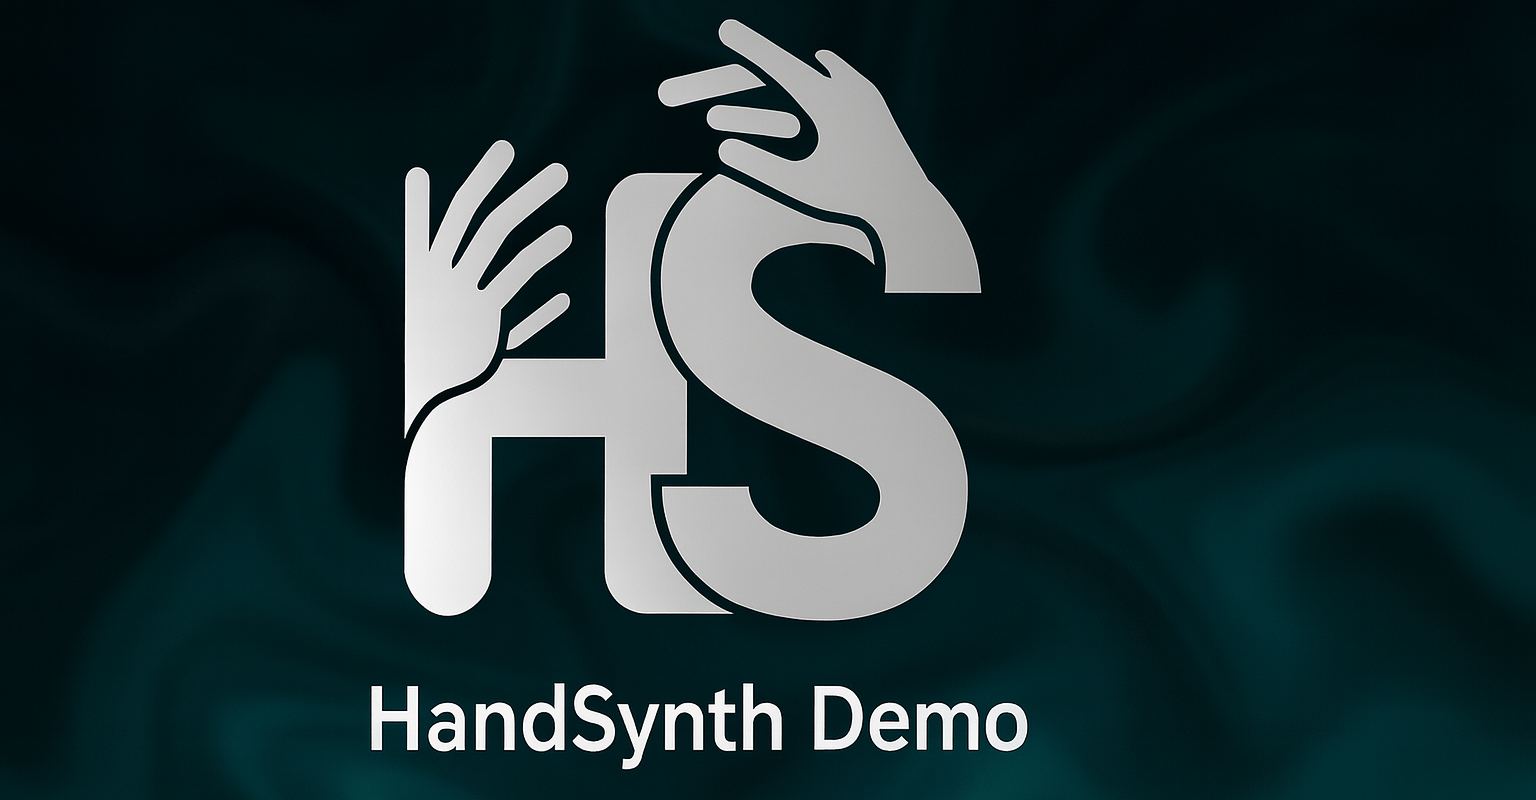
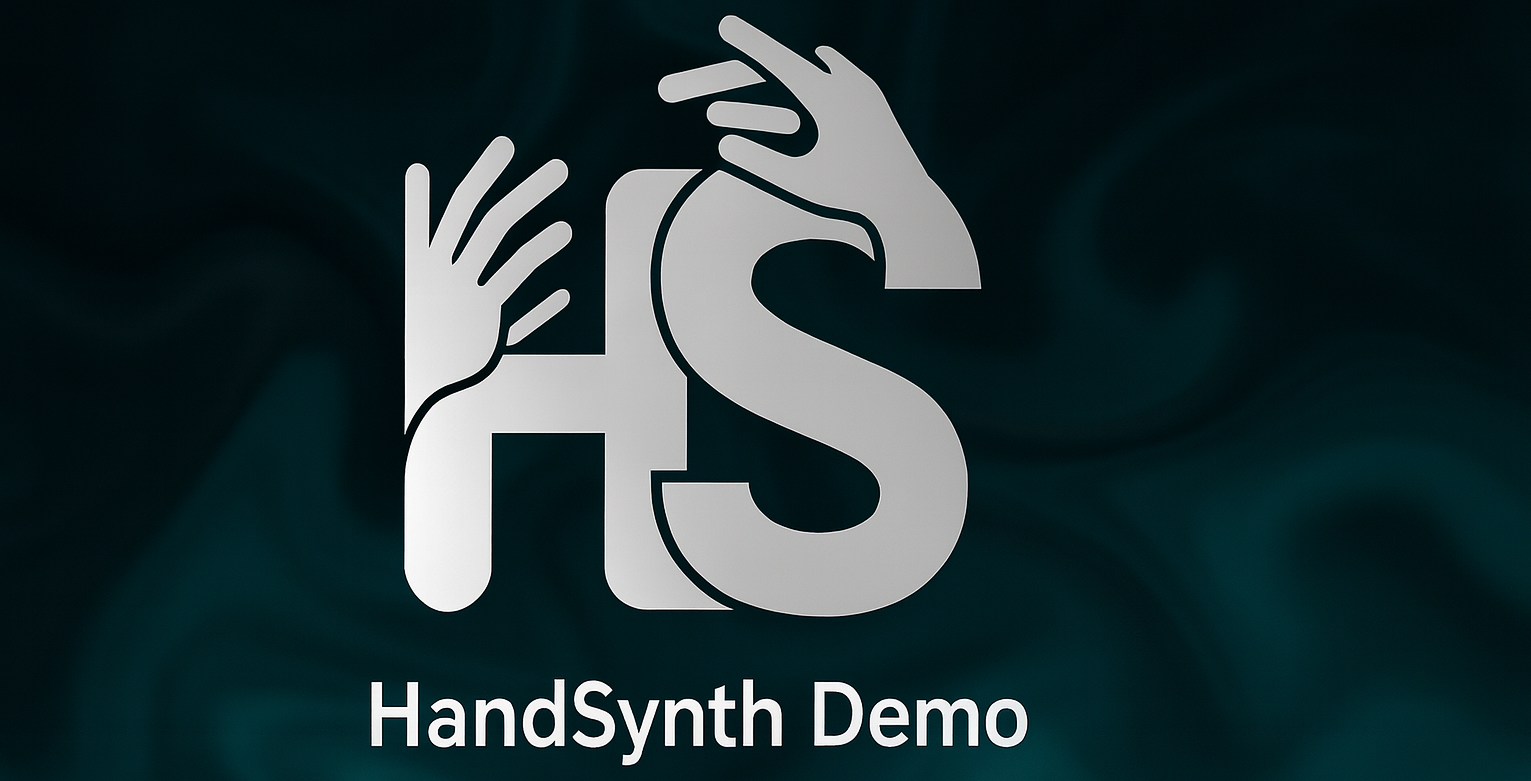
background image

diff --git a/css/styles.css b/css/styles.css
@@ -71,7 +71,7 @@ body {
   font-family: 'Montserrat', system-ui, -apple-system, BlinkMacSystemFont, sans-serif;
   background-color: var(--dark-bg);
   background-image: url('../bg.png');
-  background-size: cover;
+  background-size: contain;
   background-position: center;
   background-attachment: fixed;
   background-repeat: no-repeat;
